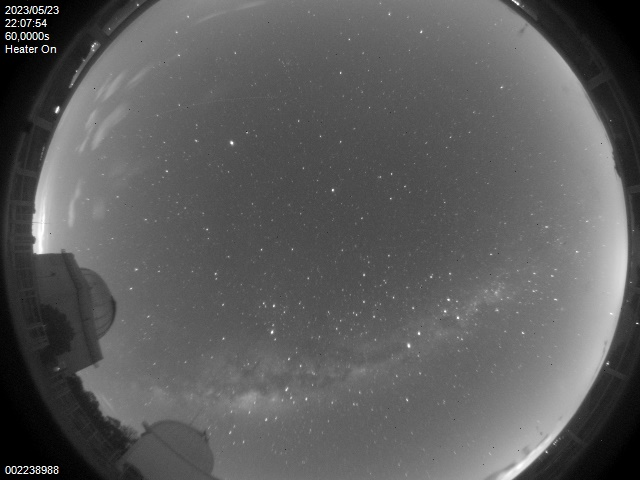
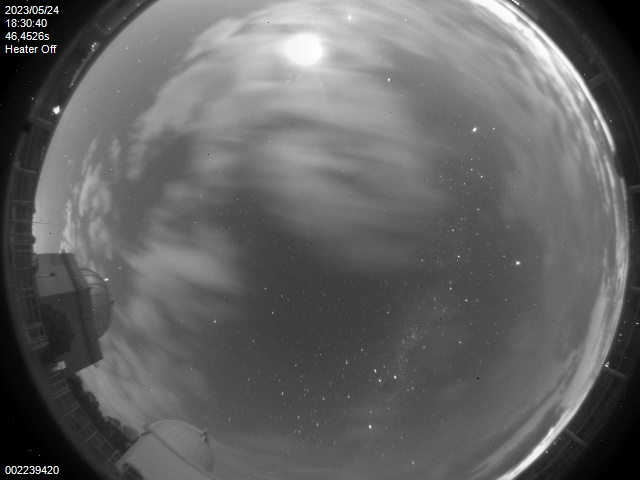
added moon

diff --git a/skymap.py b/skymap.py
@@ -10,6 +10,8 @@ from skyfield.api import Star, load, wgs84
 from skyfield.data import hipparcos, stellarium
 from skyfield.api import load_constellation_names
 from skyfield.projections import build_stereographic_projection
+from skyfield.framelib import ecliptic_frame
+
 from datetime import datetime, timedelta
 from pytz import timezone
 
@@ -103,11 +105,13 @@ class SkyMap():
             position = opd_local.from_altaz(alt_degrees=90, az_degrees=0)        
             sun = self.eph['sun']
             earth = self.eph['earth']
+            moon = self.eph['moon']
 
             try:                
                 # Make a projection and get the the x and y coordinates that each star will have on the plot.
                 projection = build_stereographic_projection(position)
-                star_positions = earth.at(time_at).observe(Star.from_dataframe(self.stardata))
+                e = earth.at(time_at)
+                star_positions = e.observe(Star.from_dataframe(self.stardata))
                 self.stardata['x'], self.stardata['y'] = projection(star_positions)
 
                 #Adjust fish-eye Allsky distotion                
@@ -150,6 +154,20 @@ class SkyMap():
                 plt.xlim(-320, 320)
                 plt.ylim(-240, 240)
 
+                #moon
+                s = e.observe(sun).apparent()
+                m = e.observe(moon).apparent()
+                _, slon, _ = s.frame_latlon(ecliptic_frame)
+                _, mlon, _ = m.frame_latlon(ecliptic_frame)
+                phase = (mlon.degrees - slon.degrees) % 360.0
+
+                if 0 <= phase < 90:
+                    moon_phase = 'new_moon'
+                if 180 <= phase < 270:
+                    moon_phase = 'full_moon'
+                else:
+                    moon_phase = 'quarter_moon'
+
                 #insert coordinates to insert it on image
                 constellations_coord = self.constelattions_name_coord(lst)
                 for constellation in constellations_coord:                    
@@ -163,7 +181,10 @@ class SkyMap():
                 valid_stars = [(star, stars[star]) for star in stars if (-280 < stars[star][0] < 280) and (-220 < stars[star][1] < 220) and is_online]
 
                 for planet, (x, y) in valid_planets:
-                    arr_img = plt.imread(f"icons/{planet}.png")
+                    if 'Moon' in planet:
+                        arr_img = plt.imread(f"icons/{moon_phase}.png")
+                    else:
+                        arr_img = plt.imread(f"icons/{planet}.png")
                     im = OffsetImage(arr_img, zoom=.1)
                     ab = AnnotationBbox(im, (x, y), frameon=False)
                     ax.add_artist(ab)

diff --git a/getEphem.py b/getEphem.py
@@ -40,12 +40,13 @@ def astro_coordinates(allsky_angle):
     sidereal_time = opd.sidereal_time()
 
     #Planets
+    moon = ephem.Moon()
     mars = ephem.Mars() 
     venus = ephem.Venus()
     jupiter = ephem.Jupiter()
     saturn = ephem.Saturn()
 
-    planets_list = [mars, venus, jupiter, saturn] 
+    planets_list = [moon, mars, venus, jupiter, saturn] 
 
     stars = {}
     planets = {}
